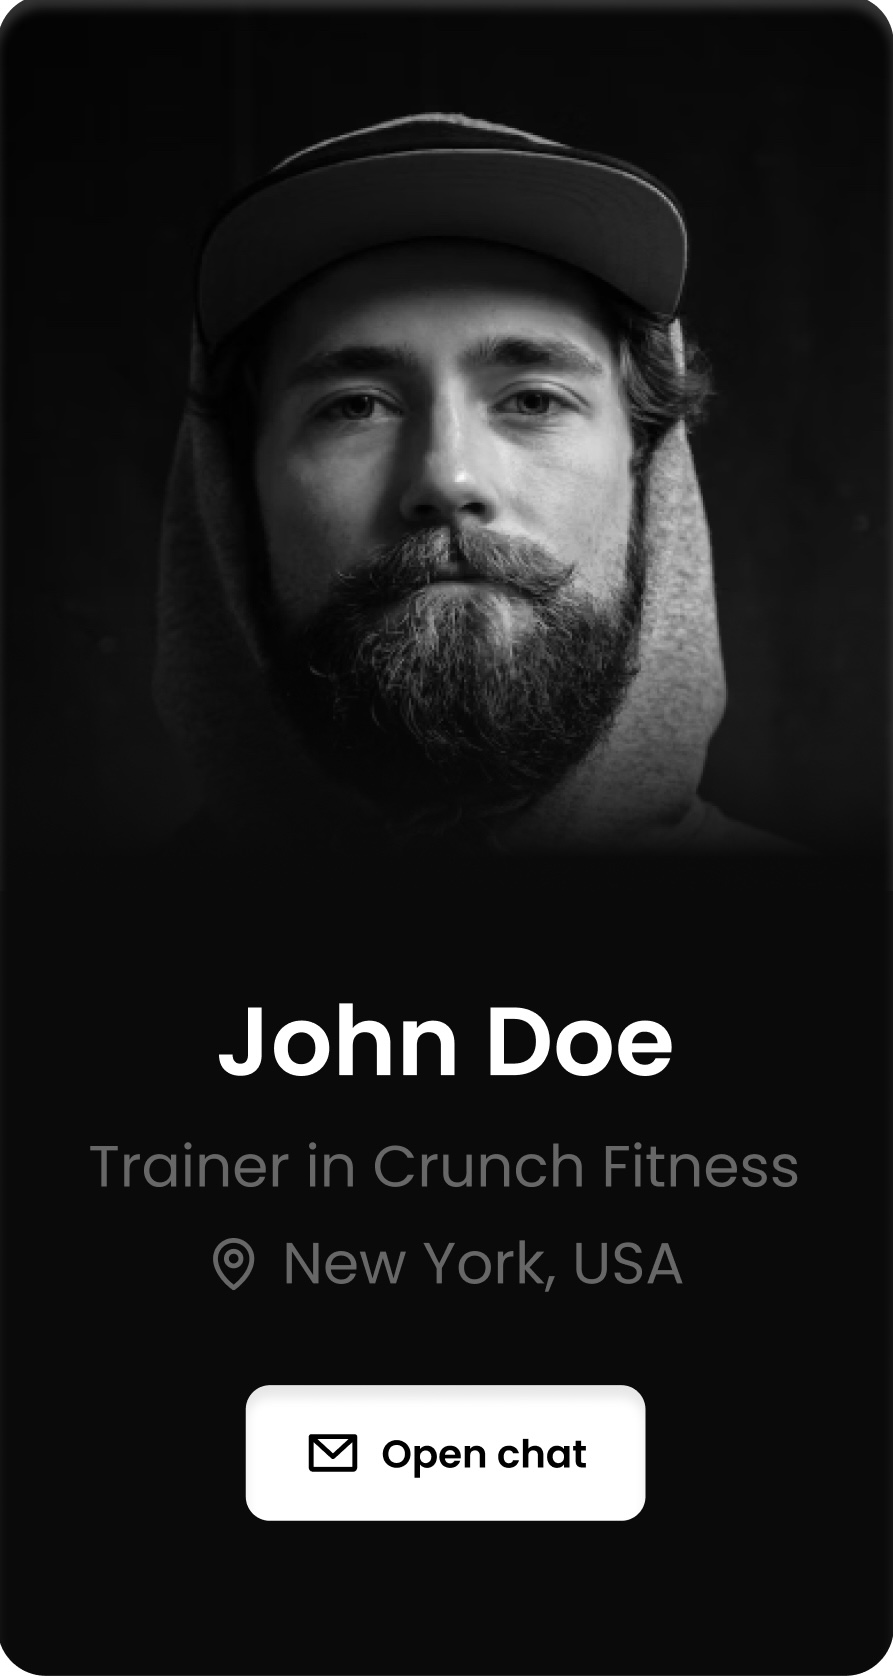
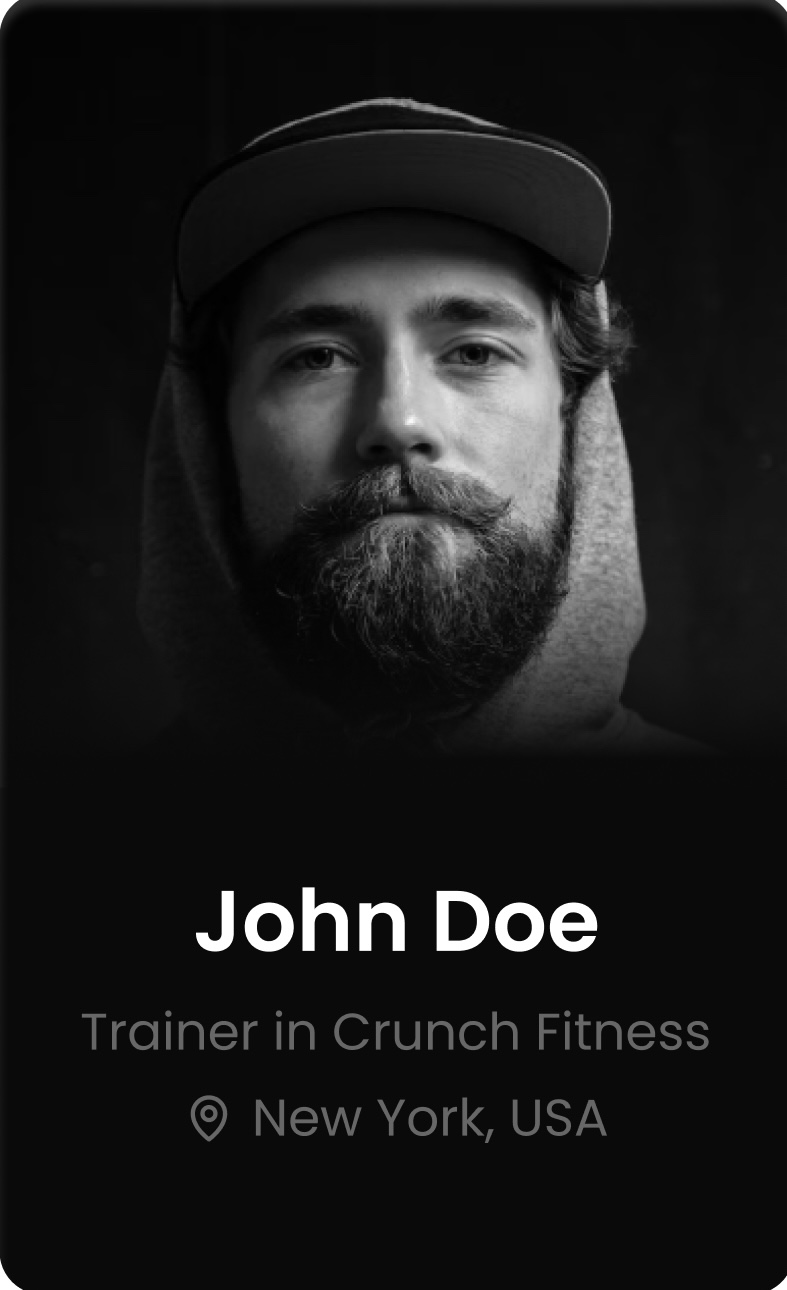
Refinement

diff --git a/backend/frontend/quiz.css b/backend/frontend/quiz.css
@@ -136,7 +136,7 @@ h3 {
 }
 
 .logout:hover {
-    background-color: #b0b0b0; 
+    background-color: rgb(121, 119, 119);; 
 }
 
 .nav-links {
@@ -264,8 +264,9 @@ button {
     font-size: 16px;
     border-radius: 10px;
     width: 150px;
+    cursor: pointer;
 }
 
 .btn-primary:hover, .btn-secondary:hover, .btn-success:hover {
-    background-color: darkgray;
+    background-color: rgb(121, 119, 119);
 }

diff --git a/backend/frontend/quiz-results.css b/backend/frontend/quiz-results.css
@@ -46,7 +46,7 @@
 }
 
 .res-btn-primary:hover {
-    background-color: darkgray;          
+    background-color: rgb(121, 119, 119);         
 }
 
 .logout {
@@ -60,7 +60,7 @@
 }
   
   .logout:hover {
-    background-color:  #cecdcd;
+    background-color:  rgb(121, 119, 119);
 }
 
 .dropdown-menu {   

diff --git a/backend/frontend/canv.css b/backend/frontend/canv.css
@@ -221,7 +221,7 @@ p {
     text-align: center; 
 }
 .coach-image-chat {
-    width: 250px;
+    width: 300px;
     height: 450px;
     max-width: 100%; 
     border-radius: 20px;  

diff --git a/backend/frontend/login.css b/backend/frontend/login.css
@@ -153,5 +153,5 @@ form button:active {
     
 }
 .login-btn-primary:hover {
-    background-color: darkgray; 
+    background-color: rgb(121, 119, 119);
 }
